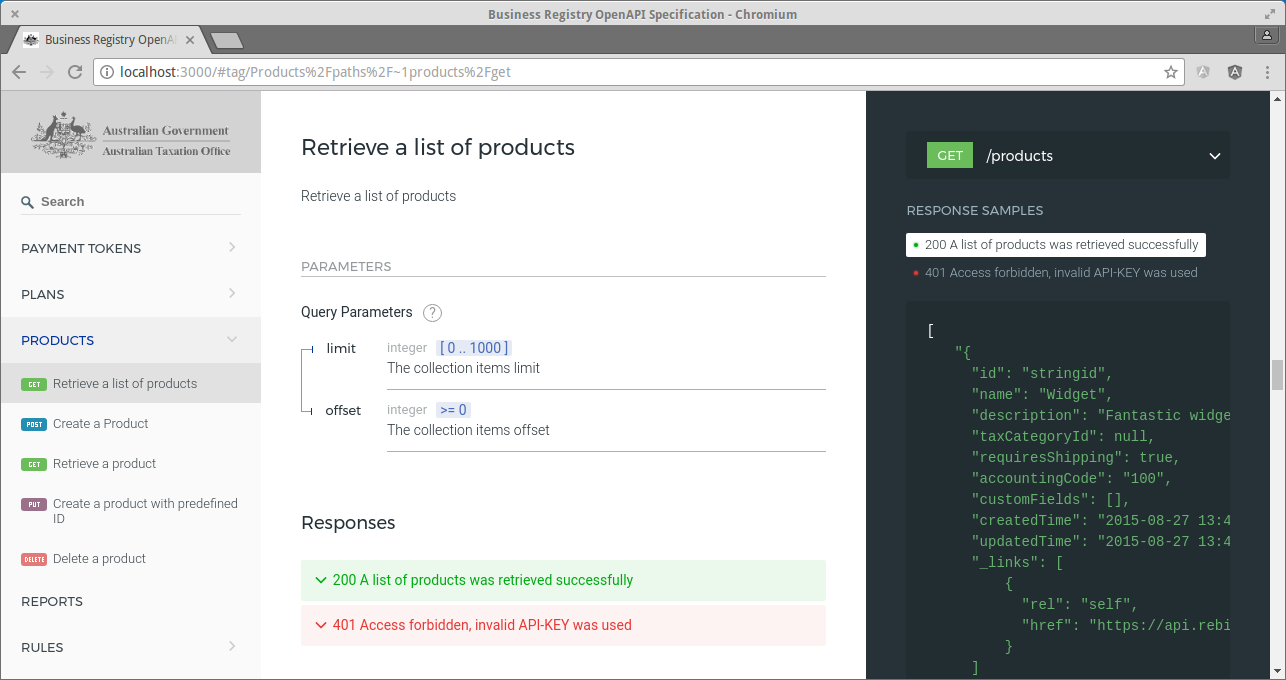
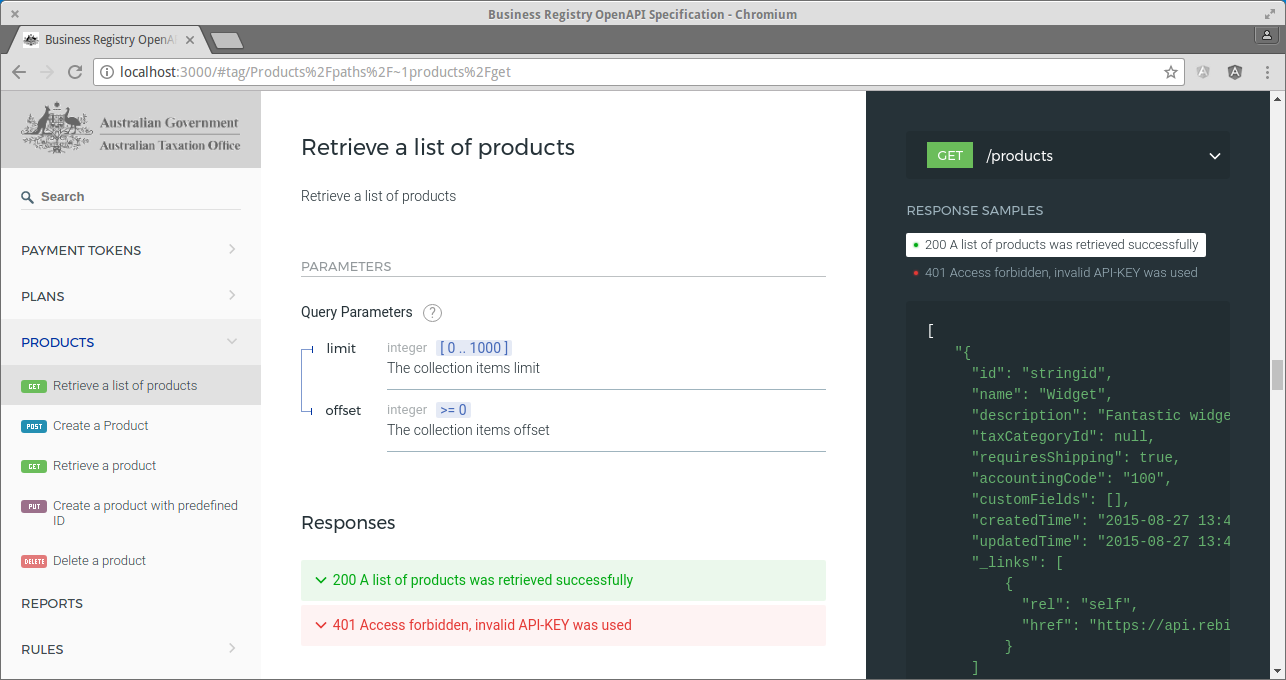
Updated the README.md file

diff --git a/web/index.html b/web/index.html
@@ -24,7 +24,7 @@
       }
 
       redoc api-logo img {
-        padding: 20px 30px 14px 30px;
+        padding: 10px 20px 14px 20px;
       }
     </style>
 
